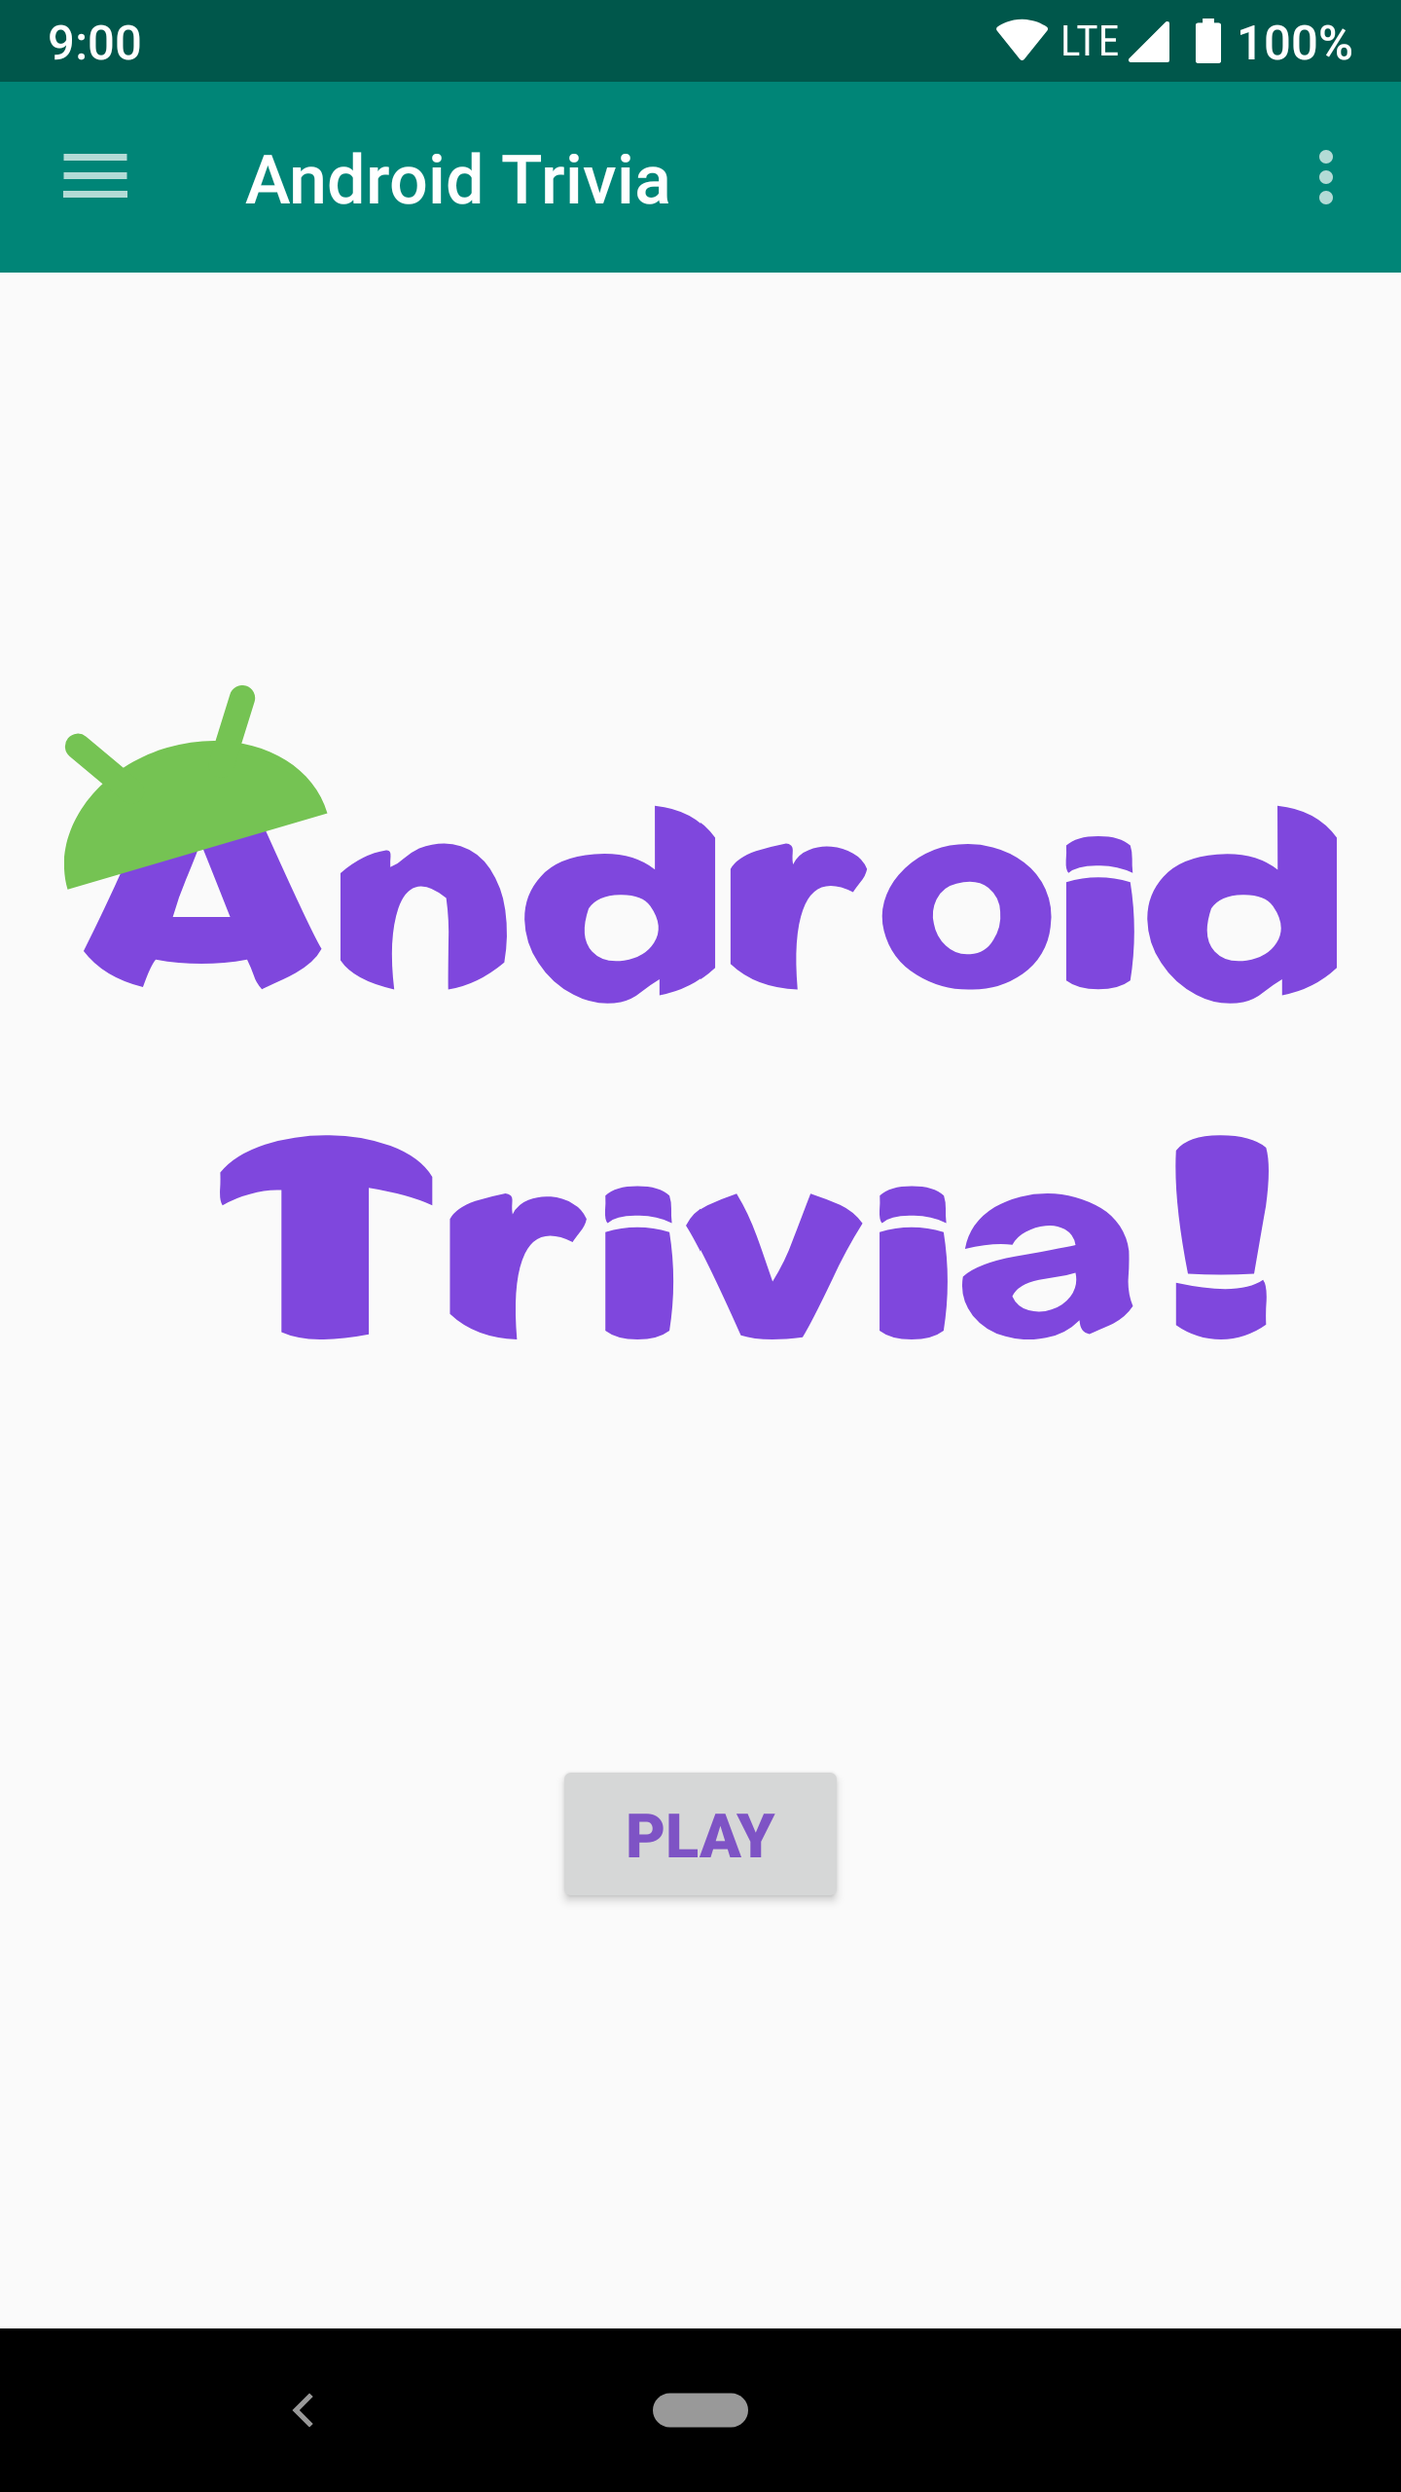
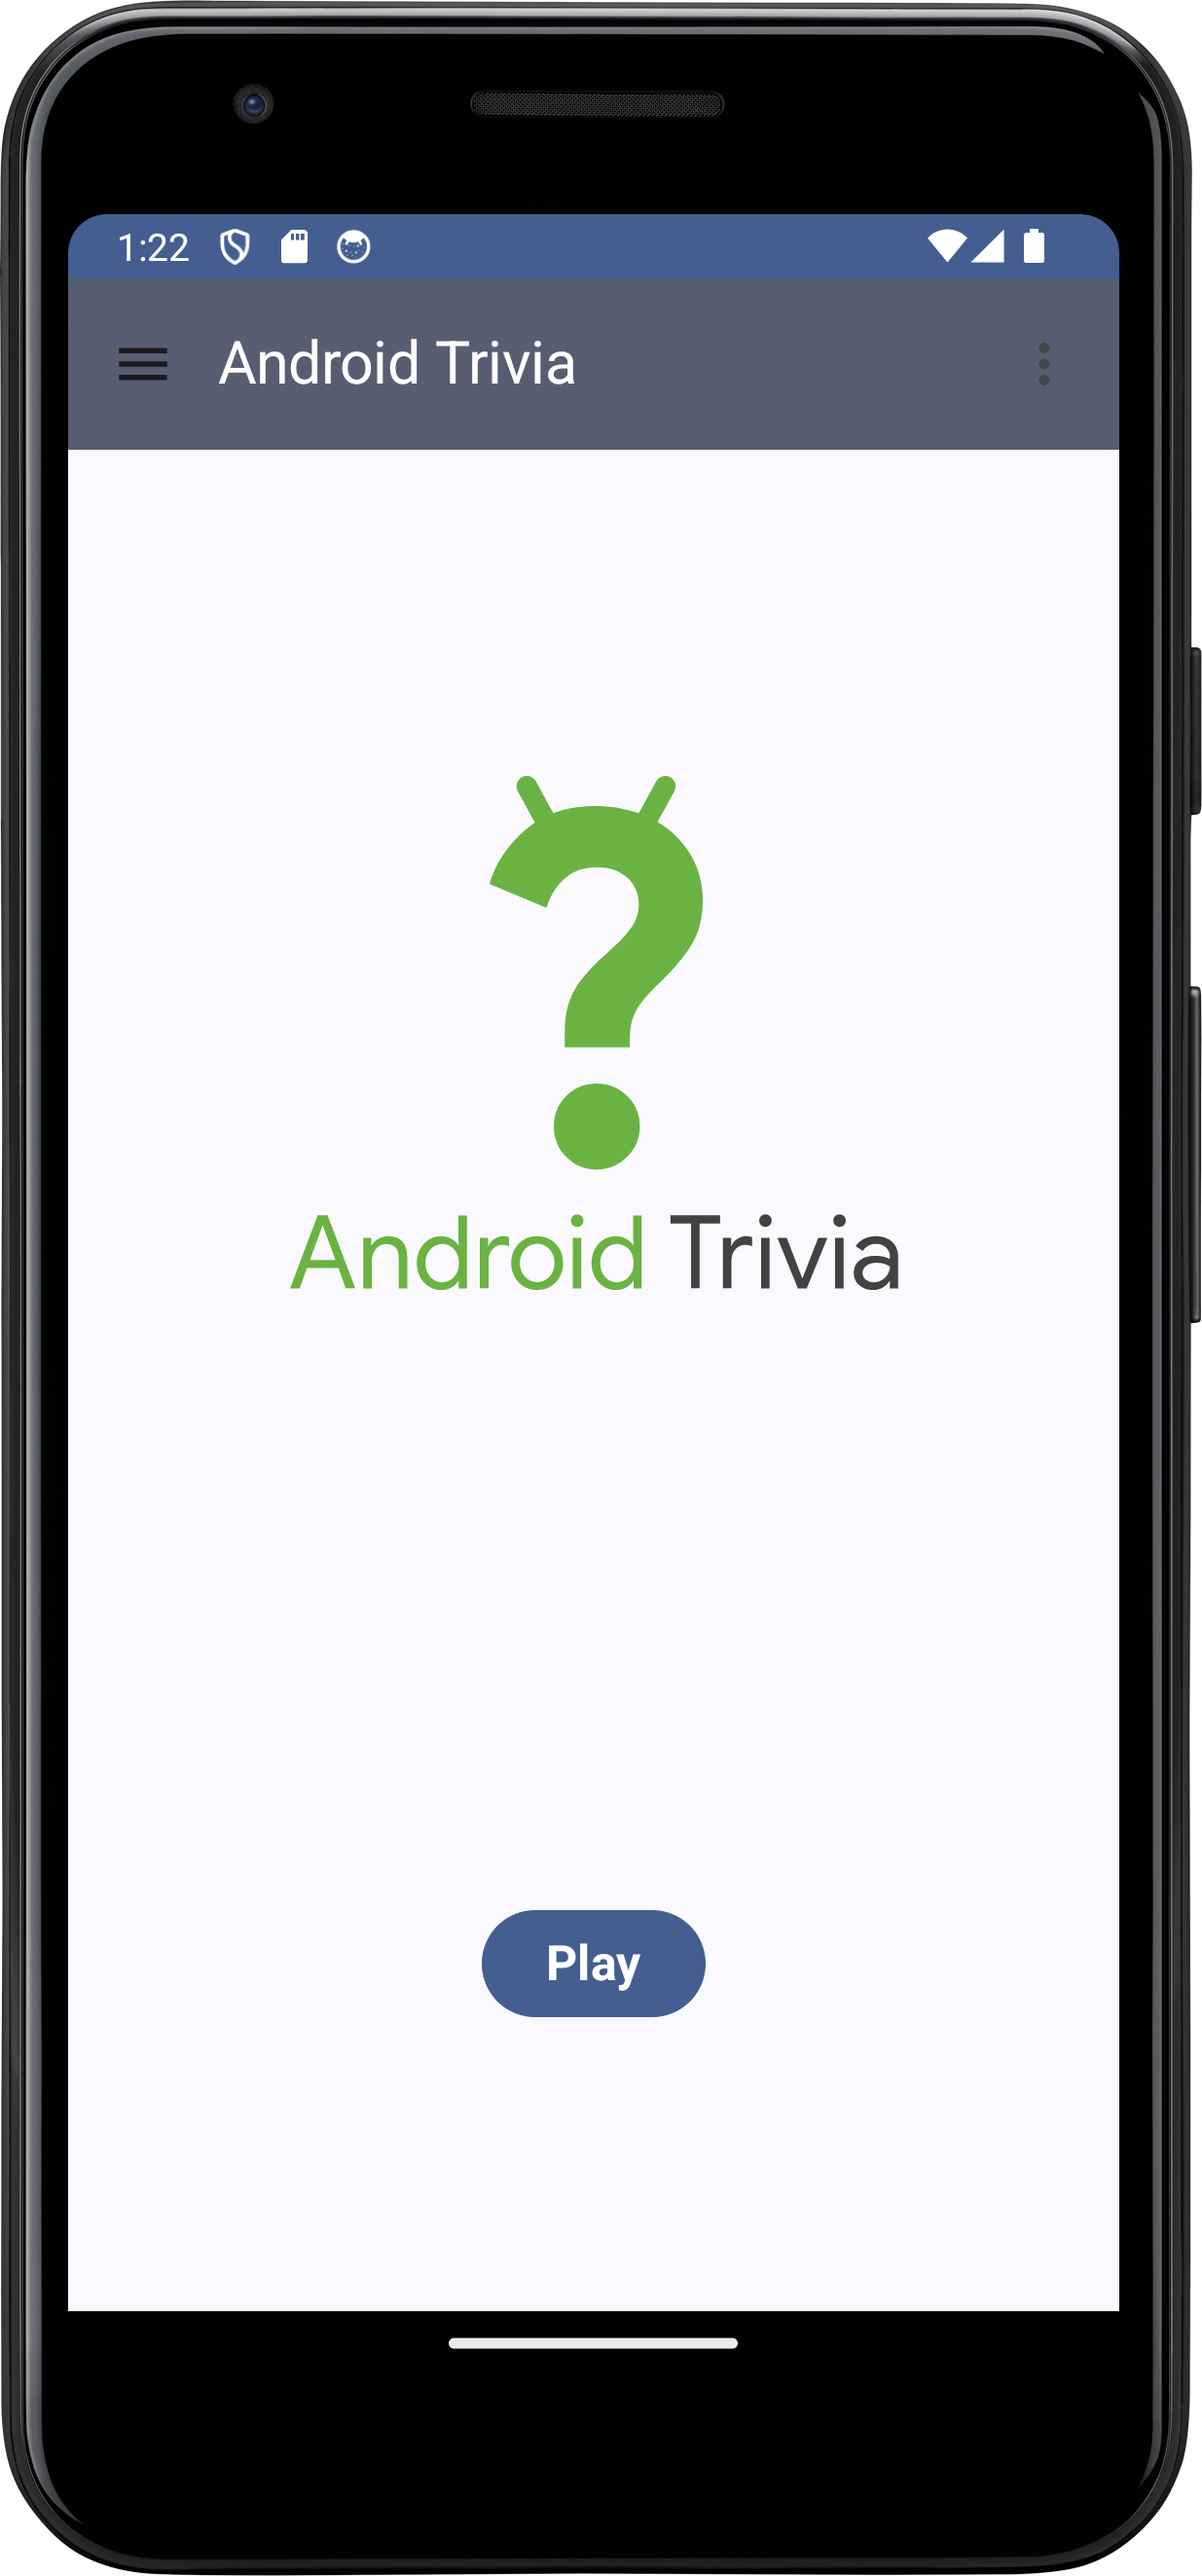
Update Readme.md
Added screenshots and updated readme.md file.
Also, removed unused animation files.

diff --git a/README.md b/README.md
@@ -1,0 +1,14 @@
+# Navigation
+
+This is the toy app for lesson 3 of the [Android App Development in Kotlin course on Udacity](https://www.udacity.com/course/developing-android-apps-with-kotlin--ud9012).
+
+## Android Trivia using ComposeUi
+
+The Android Trivia application is an application that asks the user trivia questions about Android development.
+It makes use of the Navigation component within Jetpack to move the user between different screens.  Each screen is implemented as a composable screen.
+The app navigates using buttons, the Action Bar, and the Navigation Drawer.
+Since students haven't yet learned about saving data or the Android lifecycle, it tries to eliminate bugs caused by configuration changes.
+
+## Screenshots
+
+![Screenshot1](screenshots/screen_1.png) ![Screenshot2](screenshots/screen_2.png)
